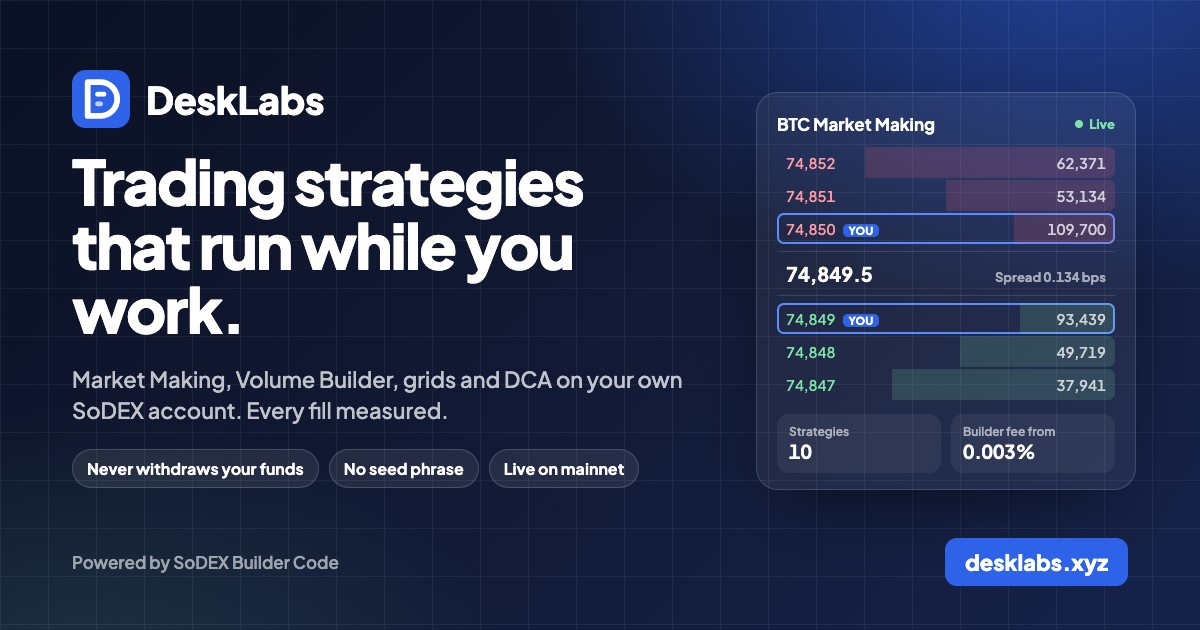
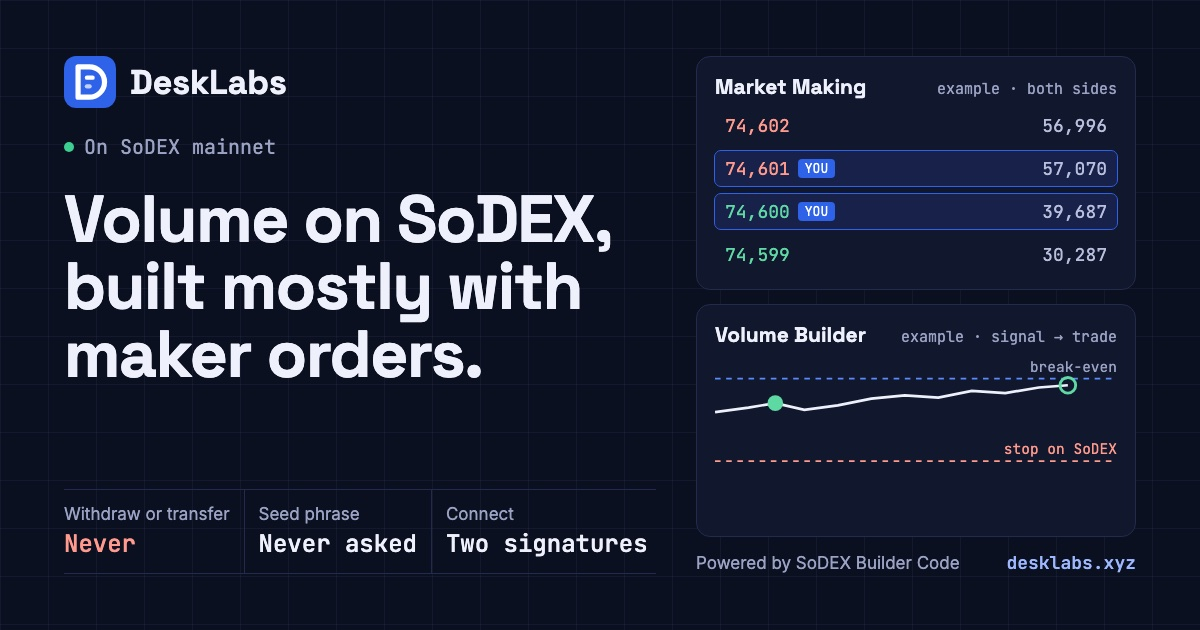
feat(web): dark share images for the landing and /claude (#175)
* feat(web): dark share images for the landing and /claude

Replace og/desklabs.jpg with the dark landing artboard and add og/claude.jpg
from docs/mockups/share-images. share-image.ts now holds landing (default)
and claude entries with the approved alt texts, and the root layout, / and
/claude set their own Open Graph / X card title, description and image.

Claude-Session: https://claude.ai/code/session_0182DcBLiS1jg1khhEoN3NJu

* fix(web): share images without wrapped labels; tab title and description match the share copy

Re-render og/desklabs.jpg and og/claude.jpg so no label wraps: labels and
footer lines are nowrap, stat columns size to their content, the outer gap
is 40 px, the right column is wider and the footer URL is 18 px. Copy is
unchanged; labels stay 17 px or larger, margins 64 px left/right and at
least 56 px top/bottom.

/ and /claude now use the approved share title and description for the tab
title and meta description too, and the unused landing / claudeGuide
metaTitle and metaDescription keys are removed.

Claude-Session: https://claude.ai/code/session_0182DcBLiS1jg1khhEoN3NJu

* chore: merge main and number DECs before merge

Claude-Session: https://claude.ai/code/session_0182DcBLiS1jg1khhEoN3NJu

---------

diff --git a/apps/web/src/lib/__tests__/share-image.test.ts b/apps/web/src/lib/__tests__/share-image.test.ts
@@ -1,0 +1,80 @@
+import { existsSync, readFileSync, statSync } from "node:fs";
+import { join } from "node:path";
+
+import { describe, expect, it } from "vitest";
+
+import messages from "../../../messages/en.json";
+import { config } from "../../proxy";
+import { SHARE_IMAGES, shareMetadata } from "../share-image";
+
+const PUBLIC_DIR = join(__dirname, "../../../public");
+
+/** Kích thước JPEG đọc từ marker SOFn, để không cần thêm thư viện ảnh. */
+function jpegSize(buf: Buffer): { width: number; height: number } {
+  let i = 2;
+  while (i < buf.length) {
+    const marker = buf[i + 1] ?? 0;
+    const len = buf.readUInt16BE(i + 2);
+    if (marker >= 0xc0 && marker <= 0xcf && marker !== 0xc4 && marker !== 0xc8 && marker !== 0xcc) {
+      return { height: buf.readUInt16BE(i + 5), width: buf.readUInt16BE(i + 7) };
+    }
+    i += 2 + len;
+  }
+  throw new Error("no SOF marker");
+}
+
+describe("share images (DEC-156, DEC-281)", () => {
+  it.each(Object.entries(SHARE_IMAGES))(
+    "%s is a 1200×630 JPG under 300 KB in public/",
+    (_key, image) => {
+      const file = join(PUBLIC_DIR, image.url);
+      expect(existsSync(file)).toBe(true);
+      expect(statSync(file).size).toBeLessThan(300 * 1024);
+      expect(jpegSize(readFileSync(file))).toEqual({ width: image.width, height: image.height });
+    },
+  );
+
+  it("keeps the approved alt texts", () => {
+    expect(SHARE_IMAGES.landing.alt).toBe(
+      "DeskLabs: Market Making and Volume Builder bots on SoDEX. Powered by SoDEX Builder Code.",
+    );
+    expect(SHARE_IMAGES.claude.alt).toBe(
+      "DeskLabs for Claude: ask about your bots in plain words.",
+    );
+  });
+
+  it("keeps the approved share copy", () => {
+    expect(messages.landing.shareTitle).toBe(
+      "{brand} · Volume on SoDEX, built mostly with maker orders",
+    );
+    expect(messages.landing.shareDescription).toBe(
+      "Market Making and Volume Builder on your own SoDEX account. Every decision logged; it can never withdraw your funds.",
+    );
+    expect(messages.claudeGuide.shareTitle).toBe("Ask Claude about your DeskLabs bots");
+    expect(messages.claudeGuide.shareDescription).toBe(
+      "Connect DeskLabs to Claude and ask about your bots, portfolio and risk. Claude reads; you decide.",
+    );
+  });
+
+  it("puts the same title, description and image on Open Graph and the X card", () => {
+    const meta = shareMetadata("claude", "T", "D");
+    expect(meta.openGraph).toMatchObject({
+      title: "T",
+      description: "D",
+      images: [SHARE_IMAGES.claude],
+    });
+    expect(meta.twitter).toMatchObject({
+      card: "summary_large_image",
+      title: "T",
+      description: "D",
+      images: [SHARE_IMAGES.claude],
+    });
+  });
+
+  it("serves every share image without going through the proxy (public, no sign-in)", () => {
+    const source = config.matcher[0]?.source ?? "";
+    const re = new RegExp(`^${source}$`);
+    expect(re.test("/claude")).toBe(true);
+    for (const image of Object.values(SHARE_IMAGES)) expect(re.test(image.url)).toBe(false);
+  });
+});

diff --git a/apps/web/src/lib/share-image.ts b/apps/web/src/lib/share-image.ts
@@ -1,7 +1,35 @@
-/** Ảnh xem trước khi chia sẻ link (Open Graph / Twitter, DEC-156): file tĩnh ở `public/og/`, proxy cho qua. */
-export const SHARE_IMAGE = {
-  url: "/og/desklabs.jpg",
-  width: 1200,
-  height: 630,
-  alt: "DeskLabs · Automated trading strategies, powered by SoDEX Builder Code",
-};
+import type { Metadata } from "next";
+
+/**
+ * Ảnh xem trước khi chia sẻ link (Open Graph / X card, DEC-156, DEC-281): file tĩnh ở `public/og/`,
+ * proxy cho qua (matcher bỏ `og/`). Nguồn: `docs/mockups/share-images/` (bản tối). Ảnh không có số live.
+ */
+export const SHARE_IMAGES = {
+  landing: {
+    url: "/og/desklabs.jpg",
+    width: 1200,
+    height: 630,
+    alt: "DeskLabs: Market Making and Volume Builder bots on SoDEX. Powered by SoDEX Builder Code.",
+  },
+  claude: {
+    url: "/og/claude.jpg",
+    width: 1200,
+    height: 630,
+    alt: "DeskLabs for Claude: ask about your bots in plain words.",
+  },
+} as const;
+
+export type ShareImageKey = keyof typeof SHARE_IMAGES;
+
+/** Khối `openGraph` + `twitter` của một trang. Next không gộp sâu `openGraph`, nên mỗi trang trả đủ cả khối. */
+export function shareMetadata(
+  key: ShareImageKey,
+  title: string,
+  description: string,
+): Pick<Metadata, "openGraph" | "twitter"> {
+  const image = SHARE_IMAGES[key];
+  return {
+    openGraph: { title, description, type: "website", siteName: "DeskLabs", images: [image] },
+    twitter: { card: "summary_large_image", title, description, images: [image] },
+  };
+}

diff --git a/apps/web/src/app/page.tsx b/apps/web/src/app/page.tsx
@@ -7,7 +7,7 @@ import { OverviewPage } from "@/features/account";
 import { LandingPage } from "@/features/public/components/landing-page";
 import { LANDING_THEME_COOKIE, themeFromCookie } from "@/features/public/landing-theme-cookie";
 import { mcpServerUrl } from "@/features/public/mcp-url";
-import { SHARE_IMAGE } from "@/lib/share-image";
+import { shareMetadata } from "@/lib/share-image";
 
 // `/`: chưa đăng nhập → Landing (UI_REVIEW mục K), đã đăng nhập → Overview. Cùng quy tắc cookie với proxy.ts.
 
@@ -19,23 +19,13 @@ export async function generateMetadata(): Promise<Metadata> {
   if (await signedIn()) return {};
   const t = await getTranslations("landing");
   const brand = (await getTranslations("common"))("brand");
-  const title = t("metaTitle", { brand });
+  // Tiêu đề tab, meta description và câu chữ khi chia sẻ link dùng chung một bộ (DEC-281).
+  const title = t("shareTitle", { brand });
+  const description = t("shareDescription");
   return {
     title,
-    description: t("metaDescription"),
-    openGraph: {
-      title,
-      description: t("metaDescription"),
-      type: "website",
-      siteName: "DeskLabs",
-      images: [SHARE_IMAGE],
-    },
-    twitter: {
-      card: "summary_large_image",
-      title,
-      description: t("metaDescription"),
-      images: [SHARE_IMAGE],
-    },
+    description,
+    ...shareMetadata("landing", title, description),
     robots: { index: true, follow: true },
   };
 }

diff --git a/apps/web/src/app/layout.tsx b/apps/web/src/app/layout.tsx
@@ -2,10 +2,10 @@ import type { Metadata, Viewport } from "next";
 import localFont from "next/font/local";
 import { headers } from "next/headers";
 import { NextIntlClientProvider } from "next-intl";
-import { getMessages } from "next-intl/server";
+import { getMessages, getTranslations } from "next-intl/server";
 import type { ReactNode } from "react";
 
-import { SHARE_IMAGE } from "@/lib/share-image";
+import { shareMetadata } from "@/lib/share-image";
 
 import { Providers } from "./providers";
 import "./globals.css";
@@ -17,12 +17,14 @@ export async function generateMetadata(): Promise<Metadata> {
   const h = await headers();
   const host = h.get("x-forwarded-host") ?? h.get("host") ?? "desklabs.xyz";
   const proto = h.get("x-forwarded-proto") ?? (host.startsWith("localhost") ? "http" : "https");
+  // Mặc định khi chia sẻ link: ảnh + câu chữ của Landing (DEC-281). Trang nào có ảnh riêng thì tự đặt.
+  const t = await getTranslations("landing");
+  const brand = (await getTranslations("common"))("brand");
   return {
     metadataBase: new URL(`${proto}://${host}`),
     title: "DeskLabs",
     robots: { index: false, follow: false },
-    openGraph: { siteName: "DeskLabs", type: "website", images: [SHARE_IMAGE] },
-    twitter: { card: "summary_large_image", images: [SHARE_IMAGE] },
+    ...shareMetadata("landing", t("shareTitle", { brand }), t("shareDescription")),
   };
 }
 

diff --git a/apps/web/src/app/claude/page.tsx b/apps/web/src/app/claude/page.tsx
@@ -5,6 +5,7 @@ import { getTranslations } from "next-intl/server";
 
 import { ClaudeGuidePage } from "@/features/public/components/claude-guide-page";
 import { mcpServerUrl } from "@/features/public/mcp-url";
+import { shareMetadata } from "@/lib/share-image";
 
 // Trang công khai "Connect DeskLabs to Claude" (MCP M6, W7). Địa chỉ server đọc từ env `MCP_PUBLIC_URL` lúc chạy (cùng
 // biến với api / mcp), nên đổi tên miền chỉ cần đặt env và khởi động lại web.
@@ -12,7 +13,10 @@ export const dynamic = "force-dynamic";
 
 export async function generateMetadata(): Promise<Metadata> {
   const t = await getTranslations("claudeGuide");
-  return { title: t("metaTitle"), description: t("metaDescription") };
+  // Tiêu đề tab, meta description và câu chữ khi chia sẻ link dùng chung một bộ; ảnh share riêng (DEC-281).
+  const title = t("shareTitle");
+  const description = t("shareDescription");
+  return { title, description, ...shareMetadata("claude", title, description) };
 }
 
 export default async function Page() {

diff --git a/e2e/flows/tests/p11-public.spec.ts b/e2e/flows/tests/p11-public.spec.ts
@@ -32,7 +32,7 @@ test("public pages pass axe, only the landing is indexable, 404 has DRIFT chrome
   expect(problems).toEqual([]);
 
   await page.goto("/");
-  await expect(page).toHaveTitle("DeskLabs · Automated trading strategies on SoDEX");
+  await expect(page).toHaveTitle("DeskLabs · Volume on SoDEX, built mostly with maker orders");
   await expect(page.locator('meta[name="robots"]')).toHaveAttribute("content", /^index/);
   await expect(page.locator('meta[property="og:image"]')).toHaveCount(1);
   await page.goto("/risk-disclosure");

diff --git a/docs/DECISIONS.md b/docs/DECISIONS.md
@@ -293,3 +293,4 @@
 | DEC-278 | 2026-11-16 | **`mm_market_hourly` giữ 90 ngày thay vì 48 giờ (người dùng duyệt plan "bước 0", DevOps chốt; thay phần retention của DEC-227).** Mục đích: team Ops gom đủ số liệu theo giờ trong ngày (markout 30 s, spread) trên prod rồi mới quyết có tạm dừng bot ở giờ biến động không. Mỗi market một dòng / giờ (top 30 market Perps + market có bot MM), 90 ngày ≈ 65K dòng. `mid_1s` vẫn giữ 48 giờ như DEC-227 (bảng lớn, chỉ D2 dùng). Lưu thô `mm-raw` (DEC-228) vẫn 48 giờ. Các truy vấn đọc bảng này đều đã chặn theo thời gian (api: 24 giờ gần nhất). | `apps/marketdata/src/mm-cost-store.ts` (`MM_KEEP_MS`, `MID_KEEP_MS`) |
 | DEC-279 | 2026-11-16 | **Cột Result của Decisions từ lệnh thật và phân loại lệnh bị từ chối (P1 nhóm 1c: BD-02 phần dữ liệu, BD-05). DevOps chốt câu chữ và phân loại theo ủy quyền.** (1) Engine gắn `payload.orders` (clOrdID) vào event quyết định ghi cùng bước chiến lược với lệnh đặt. **Giới hạn:** mọi lệnh của bước được gắn vào mọi quyết định ghi trong bước đó (chiến lược không cho biết action nào sinh lệnh nào; thứ tự log / place khác nhau giữa các chiến lược). (2) Kết quả gộp, tính trên các lệnh tìm thấy so với số lệnh quyết định đã đặt: có lệnh `unknown` → "Unknown" (có thể đã khớp, quy tắc 1.7 / 1.8); "Filled" chỉ khi tìm thấy đủ lệnh và mọi lệnh khớp đủ, còn lại "Partially filled" (chữ của trạng thái lệnh trong app); chưa khớp gì thì Open → Cancelled → Rejected → Not placed; không tìm thấy lệnh nào → để trống. (3) Lệnh bị từ chối: `PostOnly` (sẽ khớp ngay) và `SELF_TRADE_BLOCKED` là bình thường; `RISK_PER_TRADE` (giới hạn rủi ro của DeskLabs chặn, không tới SoDEX) đếm riêng "{n} blocked by your risk limits"; mọi mã khác (kể cả trống / mới) là "refused for other reasons". "Recent errors" không còn ghi "No errors." khi có lệnh bị SoDEX từ chối thật hoặc bị giới hạn rủi ro chặn trong 24 giờ. Link tới lệnh và gộp các lần đặt lại: PR riêng theo `docs/mockups/bd02-decisions`. | `apps/engine/src/engine.ts`, `packages/shared/src/api/bots.ts`, `apps/api/src/modules/bots/service.ts`, `apps/web/src/features/bots` |
 | DEC-280 | 2026-11-16 | **Font mới tự host bằng gói npm (DevOps chốt theo ủy quyền về dependency tooling; quyết định font của người dùng ở PR #166).** Thêm `@fontsource-variable/space-grotesk`, `@fontsource-variable/inter`, `@fontsource-variable/jetbrains-mono` (pin 5.3.0, OFL-1.1), nạp qua `next/font/local` như Plus Jakarta Sans: chỉ file subset latin, bản variable, giới hạn weight dùng tới (Space Grotesk 500–700, Inter 400–600, JetBrains Mono 400–500). Build không tải Google Fonts, CSP `font-src 'self'` giữ nguyên. Bước 1: chỉ module của landing và trang MCP import (`features/public/landing-fonts.ts`), nên app không nạp. Bước 2 (PR riêng) dùng lại đúng các gói này cho cả app. Landing: token màu riêng `l-*` trong `globals.css`, chỉ có nghĩa bên trong `.landing`; mặc định sáng, `data-theme="dark"` khi người dùng bấm nút đổi theme, nhớ bằng localStorage (`desklabs.landing.theme`, bọc try/catch). | `apps/web/src/features/public/landing-fonts.ts`, `apps/web/src/app/globals.css`, `docs/ARCHITECTURE.md` mục 4 |
+| DEC-281 | 2026-11-16 | **Ảnh share mới (Open Graph / X card) cho landing và `/claude` (người dùng chọn bản tối; câu chữ meta DevOps duyệt; thay phần "ảnh share không đổi" của DEC-277).** Nguồn: `docs/mockups/share-images/` (canvas "DeskLabs share images"). Ship theme **tối** của `Main.dc.html` thành `apps/web/public/og/desklabs.jpg` (thay ảnh cũ) và của `OgClaude.dc.html` thành `apps/web/public/og/claude.jpg` (mới); 1200×630 JPG, dưới 300 KB, lề trái / phải 64 px, trên / dưới ≥ 56 px; không nhãn nào xuống dòng (chỉ chỉnh cỡ chữ / độ rộng cột, không đổi câu chữ). **Không có số live trên ảnh** (volume, CPM, PnL, mức phí): nền tảng cache ảnh rất lâu; order book và biểu đồ trên ảnh là ví dụ có nhãn "example". `lib/share-image.ts` giữ hai mục `landing` (mặc định, cả root layout) và `claude`, kèm alt text đã duyệt; tiêu đề tab, meta description và og/twitter title + description dùng chung `landing.shareTitle/shareDescription` và `claudeGuide.shareTitle/shareDescription` (bỏ `metaTitle` / `metaDescription` cũ của hai trang này). Proxy vẫn bỏ qua `og/` nên ảnh công khai (DEC-156). **Sau deploy:** làm mới cache Facebook (Sharing Debugger) và Telegram (@WebpageBot); X tự lấy ảnh mới trong khoảng một ngày. | `apps/web/src/lib/share-image.ts`, `apps/web/src/app/{layout,page,claude/page}.tsx`, `apps/web/public/og/` |
